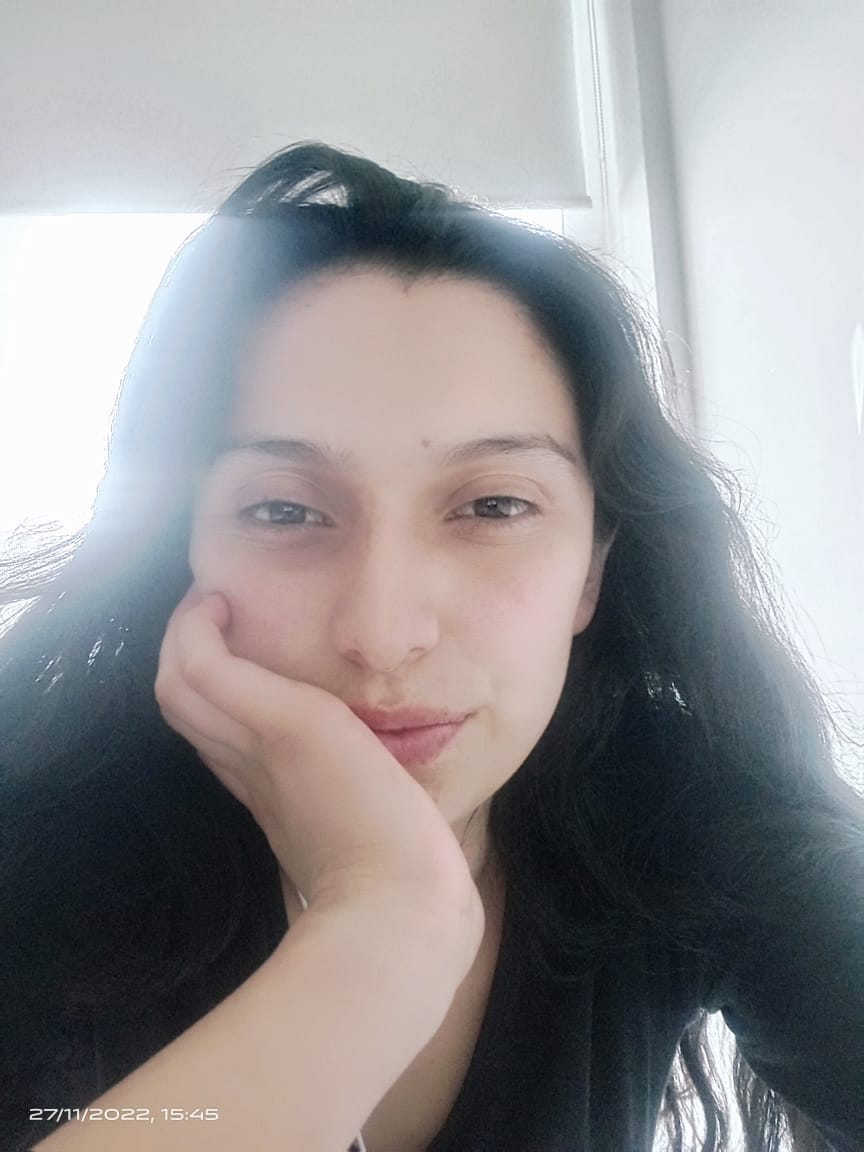
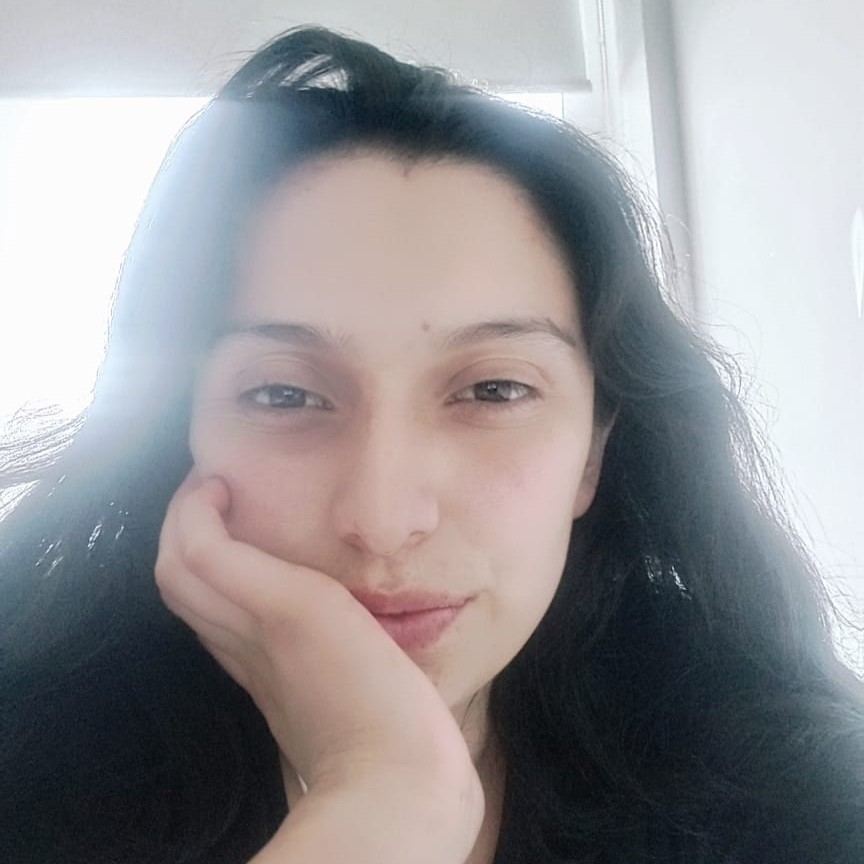
Añadiendo imagen Andrea - Sofia

diff --git a/index.html b/index.html
@@ -86,7 +86,7 @@
                     <a href="http://www.linkedin.com/in/andrea-portilla-78abb8323" target="_blank"><img src="imgs/linkedin.png" height="25px"></a>
                     <a href="https://www.facebook.com/andreaportilla24/" target="_blank"><img src="imgs/facebook.png" height="25px"></a>
                 </div>
-                <img src="imgs/perfil.png" alt="Sofía" height="200px">
+                <img src="imgs/Andrea.jpeg" alt="Sofía" height="200px">
                 <p>Estudiante de séptimo semestre de Ingeniería de Sistemas e Informática en la Universidad 
                     Industrial de Santander (UIS). Posee un título de bachiller técnico con Especialidad en 
                     Sistemas del Servicio Nacional de Aprendizaje (SENA). Es dedicada y apasionada por la 
